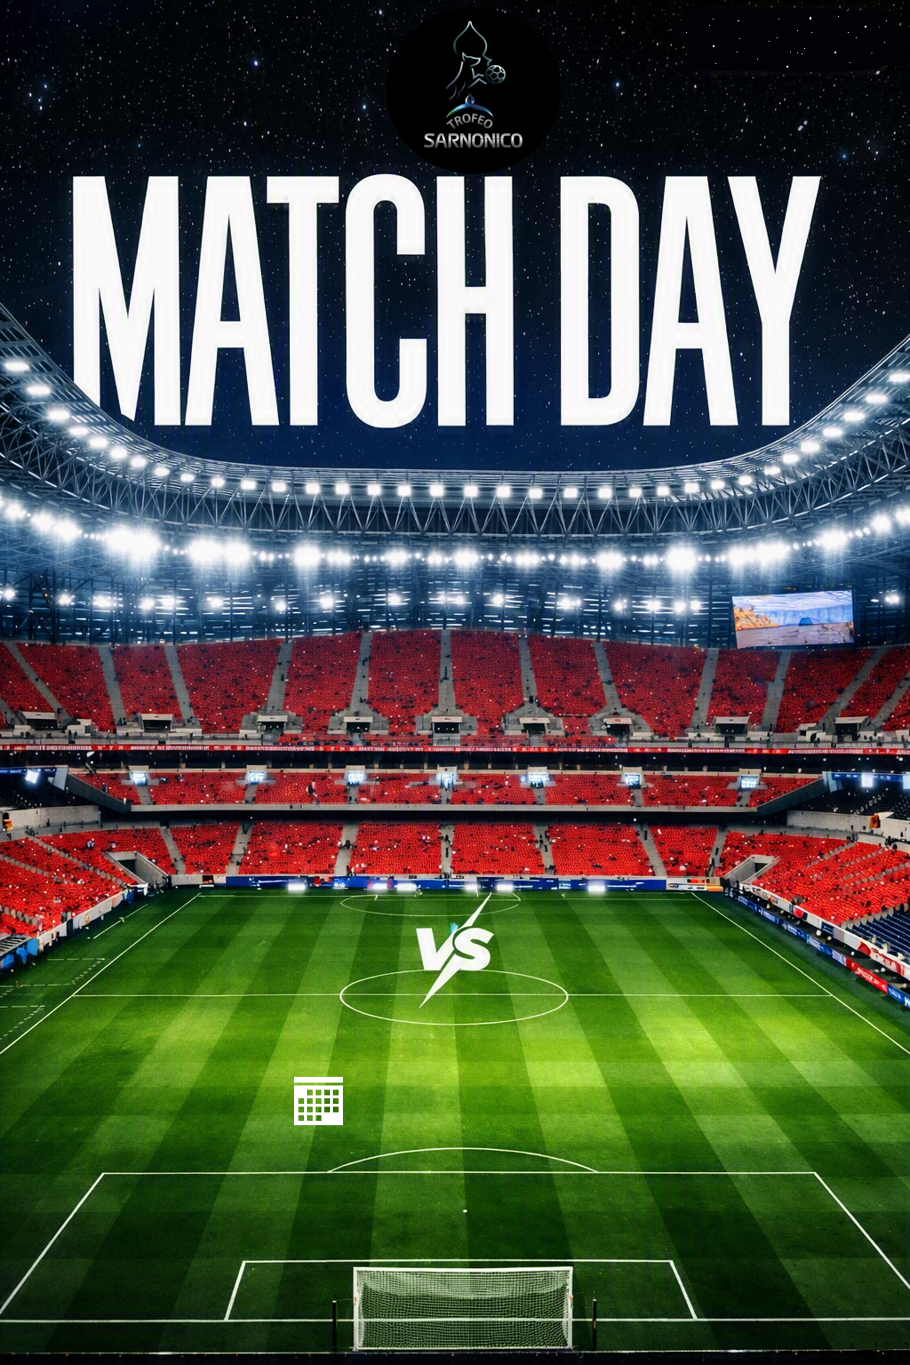
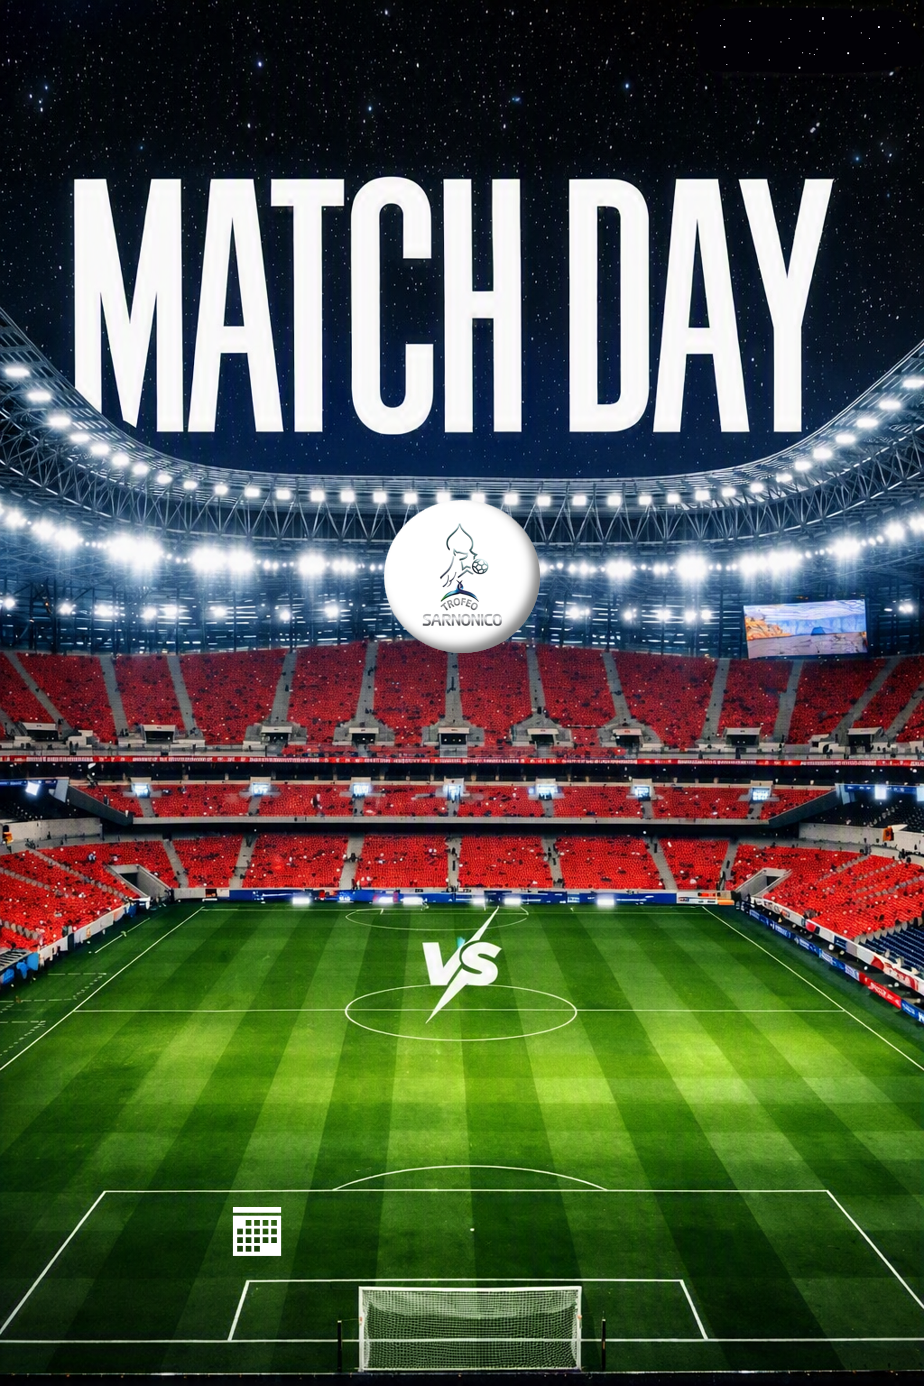
e

diff --git a/app/api/matches/[id]/generate-post/route.tsx b/app/api/matches/[id]/generate-post/route.tsx
@@ -48,7 +48,7 @@ export async function GET(
       <div style={{ display: 'flex', flexDirection: 'column', width: '100%', height: '100%' }}>
         
         {/* Etichetta FASE (sopra i nomi) */}
-        <div style={{ position: 'absolute', top: 980, left: 0, right: 0, display: 'flex', justifyContent: 'center' }}>
+        <div style={{ position: 'absolute', top: 1000, left: 0, right: 0, display: 'flex', justifyContent: 'center' }}>
           <div style={{ display: 'flex', background: 'rgba(0,0,0,0.6)', borderRadius: '50px', padding: '12px 40px', border: '2px solid rgba(255,255,255,0.3)' }}>
             <div style={{ display: 'flex', fontSize: 28, fontWeight: '700', color: 'white', letterSpacing: '4px' }}>{match.phase || 'GIRONI'}</div>
           </div>
@@ -79,7 +79,7 @@ export async function GET(
         </div>
 
         {/* Data e ora (a fianco dell'icona calendario) */}
-        <div style={{ position: 'absolute', top: 1530, left: 0, right: 0, display: 'flex', justifyContent: 'center' }}>
+        <div style={{ position: 'absolute', top: 1630, left: 0, right: 0, display: 'flex', justifyContent: 'center' }}>
           <div style={{ display: 'flex', fontSize: 42, fontWeight: '700', color: 'white', letterSpacing: '3px', textShadow: '0 4px 20px rgba(0,0,0,0.9)' }}>
             {formattedDate} - {matchTime}
           </div>
